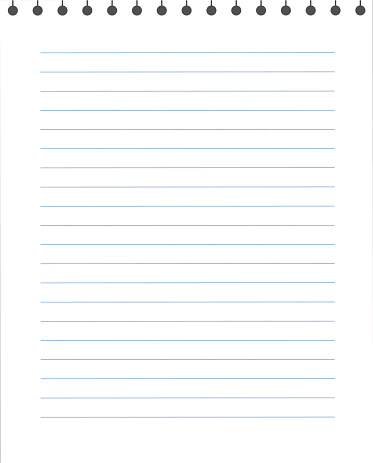
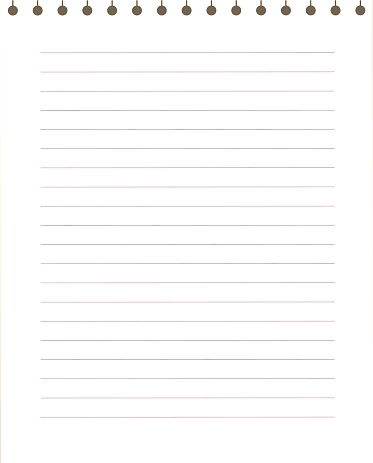
added basic functionality: adding items to lists with appropriate headers

diff --git a/src/index.html b/src/index.html
@@ -23,6 +23,8 @@
   <body>
     <header>
     <!-- typing effect -->
+    <h1>Shopping List</h1>
+    <button id="addBtn">+</button>
     </header>
     <main>
     <!-- dropping form -->
@@ -30,17 +32,17 @@
 			<div class="panel" id="addItemPanel">
 				<h3 class="header">Add Item</h3>
 				<form id="addItemForm">
-					<input type="text" name="title" id="itemTitle" class="form-control" placeholder="item">
+					<input type="text" name="title" id="itemTitle" placeholder="item">
 				
-        	<input type="radio" name="quantityType" id="pcsRadio" class="form-control" value="pcs">
+        	<input type="radio" name="quantityType" id="pcsRadio" value="pcs" checked>
           <label for="pcsRadio">pieces<label>
-          <input type="radio" name="quantityType" id="weightRadio" class="form-control" value="weight">
+          <input type="radio" name="quantityType" id="weightRadio" value="weight">
           <label for="pcsRadio">weight [kg]<label>
           
-          <input type="number" min="0" step="0.01" name="quantity" id="itemQuantity" class="form-control" placeholder="quantity">
+          <input type="number" min="0.01" step="0.01" name="quantity" id="itemQuantity" placeholder="quantity">
 				
-        	<label for="category">Category</label>
-          <select id="category" name="category">
+        	<label for="categorySelect">Category</label>
+          <select id="categorySelect" name="category">
             <option value="beverages">Beverages</option>
             <option value="bakery">Bakery</option>
             <option value="dairy">Dairy</option>
@@ -56,8 +58,19 @@
 
 				</form>
 			</div>
-		</div>
+    </div>
+    
     <!-- list + categories -->
+    <div class="list">
+      <ul class="main-list beverages"></ul>
+      <ul class="main-list bakery"></ul>
+      <ul class="main-list dairy"></ul>
+      <ul class="main-list frozenFoods"></ul>
+      <ul class="main-list fruit"></ul>
+      <ul class="main-list paperGoods"></ul>
+      <ul class="main-list personalCare"></ul>
+      <ul class="main-list vegetables"></ul>
+    </div>
     <!-- save to file btn -->
     </main>
 

diff --git a/src/js/index.js b/src/js/index.js
@@ -1,0 +1,39 @@
+import { FormControl } from './form-control';
+import { AddPanelUtils } from './add-panel-utils';
+import { Item } from './item-class';
+import { appendList } from './append-list';
+import { findList } from './find-list';
+import { InputValidation } from './input-validation';
+
+const formControl = new FormControl();
+const addPanelUtils = new AddPanelUtils();
+
+const mainList = document.querySelector('.main-list');
+const addItemContainer = document.querySelector('#addItemContainer');
+
+//***buttons functionality***//
+addPanelUtils.onClick(() => {
+	addItemContainer.classList.remove('hidden');
+	formControl.clearForm();
+});
+
+formControl.onSubmitClick(() => {
+	event.preventDefault();
+
+	const newItem = new Item();
+	appendList({
+		category: newItem.category,
+		name: newItem.name,
+		quantity: newItem.quantity,
+		type: newItem.type
+	});
+	addItemContainer.classList.add('hidden');
+});
+
+formControl.onCancelClick(() => {
+	event.preventDefault();
+	formControl.clearForm();
+	addItemContainer.classList.add('hidden');
+});
+
+//****************//

diff --git a/src/js/form-control.js b/src/js/form-control.js
@@ -1,0 +1,44 @@
+export class FormControl {
+	constructor() {
+		this.nameInput = document.querySelector('#itemTitle');
+		this.quantity = document.querySelector('#itemQuantity');
+		this.radioTypePcs = document.querySelector('#pcsRadio');
+		this.radioTypeWeight = document.querySelector('#weightRadio');
+		this.category = document.querySelector('#categorySelect');
+		this.submitBtn = document.querySelector('#submitButton');
+		this.cancelBtn = document.querySelector('#cancelButton');
+	}
+
+	getName() {
+		return this.nameInput.value;
+	}
+	getQuantity() {
+		return this.quantity.value;
+	}
+	getType() {
+		if (this.radioTypePcs.checked) {
+			this.type = 'x';
+		} else {
+			this.type = 'kg';
+		}
+		return this.type;
+	}
+
+	getCategory() {
+		return this.category.value;
+	}
+
+	onSubmitClick(cb) {
+		this.submitBtn.addEventListener('click', cb);
+	}
+
+	onCancelClick(cb) {
+		this.cancelBtn.addEventListener('click', cb);
+	}
+
+	clearForm() {
+		this.nameInput.value = '';
+		this.quantity.value = '';
+		this.category.selectedIndex = -1;
+	}
+}

diff --git a/src/scss/_addPanel.scss b/src/scss/_addPanel.scss
@@ -6,25 +6,25 @@
 	bottom: 0;
 	background-color: rgba(0, 0, 0, 0.85);
 	z-index: 5;
-}
 
-.panel {
-	background: $light-gray;
-	color: $red;
-	border-radius: 5px;
-	box-shadow: 0px 0px 3px $dark-gray;
-	padding: 40px 20px 20px 20px;
-	margin: 10px;
-}
+	.panel {
+		background: $light-gray;
+		color: $red;
+		border-radius: 5px;
+		box-shadow: 0px 0px 3px $dark-gray;
+		padding: 40px 20px 20px 20px;
+		margin: 10px;
+	}
 
-#addItemContainer {
-	display: flex;
-	justify-content: center;
-	align-items: center;
-}
+	#addItemContainer {
+		display: flex;
+		justify-content: center;
+		align-items: center;
+	}
 
-#addItemPanel {
-	animation: slide-down 1s 0s ease-in;
+	#addItemPanel {
+		animation: slide-down 1s 0s ease-in;
+	}
 }
 
 @keyframes slide-down {

diff --git a/css/index.min.css/index.css b/css/index.min.css/index.css
@@ -1,3 +1,7 @@
+* {
+  font-family: Roboto, sans-serif;
+}
+
 .full-screen-opaque {
   position: absolute;
   top: 0;
@@ -8,7 +12,7 @@
   z-index: 5;
 }
 
-.panel {
+.full-screen-opaque .panel {
   background: #eae7dc;
   color: #e85a4f;
   border-radius: 5px;
@@ -18,7 +22,7 @@
   margin: 10px;
 }
 
-#addItemContainer {
+.full-screen-opaque #addItemContainer {
   display: -webkit-box;
   display: -ms-flexbox;
   display: flex;
@@ -30,7 +34,7 @@
           align-items: center;
 }
 
-#addItemPanel {
+.full-screen-opaque #addItemPanel {
   -webkit-animation: slide-down 1s 0s ease-in;
           animation: slide-down 1s 0s ease-in;
 }

diff --git a/src/js/append-list.js b/src/js/append-list.js
@@ -1,0 +1,15 @@
+export const appendList = ({ category, name, quantity, type }) => {
+	const ul = document.getElementsByClassName(category)[0];
+	if (!ul.hasChildNodes()) {
+		const h2 = document.createElement('h2');
+		h2.classList.add('category-header');
+		const headerText = category.toUpperCase();
+		h2.innerText = headerText;
+		const parentDiv = ul.parentNode;
+		parentDiv.insertBefore(h2, ul);
+	}
+	console.log(ul);
+	const li = document.createElement('li');
+	li.appendChild(document.createTextNode(`${quantity} ${type} ${name}`));
+	ul.appendChild(li);
+};

diff --git a/src/js/input-validation.js b/src/js/input-validation.js
@@ -1,0 +1,22 @@
+import { FormControl } from './form-control';
+export class InputValidation {
+	constructor() {
+		this.formControl = new FormControl();
+		this.nameInput = this.formControl.nameInput;
+		this.quantityInput = this.formControl.quantity;
+		this.categoryInput = this.formControl.category;
+	}
+
+	validateName() {
+		//not empty
+	}
+
+	validateQuantity() {
+		//>0
+		//zaokrąglanie do 0.01
+	}
+
+	validateCategory() {
+		//not empty
+	}
+}

diff --git a/src/js/item-class.js b/src/js/item-class.js
@@ -1,0 +1,11 @@
+import { FormControl } from './form-control';
+
+export class Item {
+	constructor() {
+		const formControl = new FormControl();
+		this.name = formControl.getName();
+		this.quantity = formControl.getQuantity();
+		this.type = formControl.getType();
+		this.category = formControl.getCategory();
+	}
+}

diff --git a/src/js/add-panel-utils.js b/src/js/add-panel-utils.js
@@ -1,0 +1,10 @@
+export class AddPanelUtils {
+	constructor() {
+		this.addBtn = document.querySelector('#addBtn');
+		this.addItemContainer = document.querySelector('#addItemContainer');
+	}
+
+	onClick(cb) {
+		this.addBtn.addEventListener('click', cb);
+	}
+}

diff --git a/src/js/find-list.js b/src/js/find-list.js
@@ -1,0 +1,9 @@
+export const findList = (category) => {
+	const lists = document.querySelectorAll('.main-list');
+
+	lists.forEach((list) => {
+		if (list.classList.contains(category)) {
+			return list;
+		}
+	});
+};

diff --git a/src/scss/index.scss b/src/scss/index.scss
@@ -5,5 +5,12 @@
 }
 
 body {
-	background-image: url('../img/backgroundPaper.jpg');
+	background: $light-gray;
+}
+
+#addBtn {
+	border: none;
+	outline: none;
+	background-color: transparent;
+	cursor: pointer;
 }

diff --git a/src/scss/_config.scss b/src/scss/_config.scss
@@ -2,3 +2,7 @@ $light-gray: #eae7dc;
 $dark-gray: #8e8d8a;
 $light-red: #e98074;
 $red: #e85a4f;
+
+* {
+	font-family: Roboto, sans-serif;
+}
